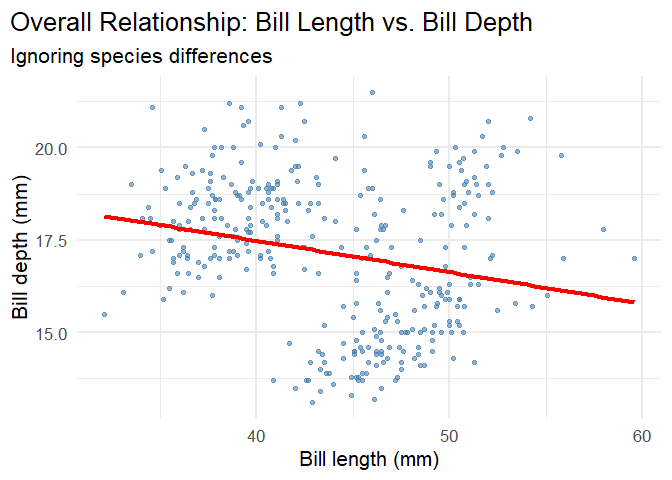
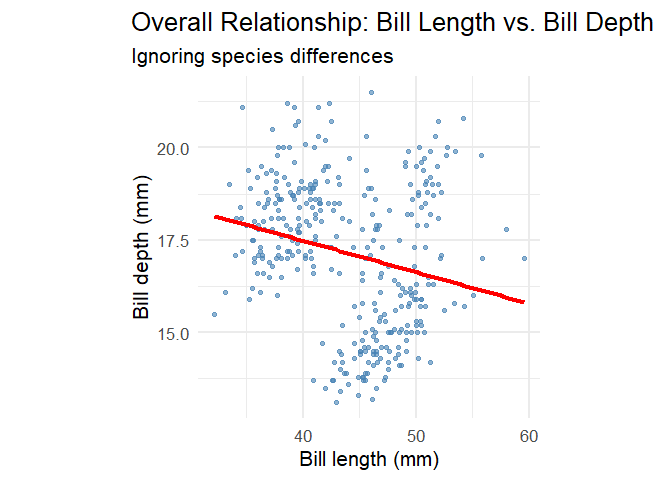
Complete Simpson's Paradox side-by-side comparison

diff --git a/README.md b/README.md
@@ -57,7 +57,8 @@ plot1 <- ggplot(data = penguins,
        y = "Bill depth (mm)") +
   theme(plot.title.position = "plot",
         plot.caption = element_text(hjust = 0, face= "italic"),
-        plot.caption.position = "plot") +
+        plot.caption.position = "plot",
+        aspect.ratio = 1) +
   geom_smooth(method = "lm", se = FALSE, color = "red", linewidth = 1.5)
 
 plot1
@@ -91,7 +92,8 @@ plot2 <- ggplot(data = penguins,
   theme(plot.title.position = "plot",
         plot.caption = element_text(hjust = 0, face = "italic"),
         plot.caption.position = "plot",
-        legend.position = "bottom") +
+        legend.position = "bottom",
+        aspect.ratio = 1) +
   # Overall trend (ignoring species)
   geom_smooth(method = "lm", se = FALSE, color = "red", 
               linewidth = 1.5, alpha = 0.8) +
@@ -119,6 +121,7 @@ relationship when we aggregate the data.
 ``` r
 # Create the side-by-side comparison using patchwork
 comparison_plot <- plot1 + plot2 +
+  plot_layout(ncol = 2, widths = c(1, 1)) +
   plot_annotation(
     title = "Simpson's Paradox: When Aggregation Lies",
     subtitle = "The same penguin data tells two completely different stories depending on whether we consider species grouping",
